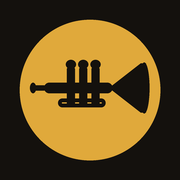
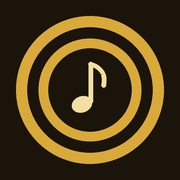
Versie 15: nieuw app-icoon (beker met noot)
Claude-Session: https://claude.ai/code/session_014hXRPaFfcgyXZBvtT8Ms8C

diff --git a/index.html b/index.html
@@ -150,7 +150,7 @@ ul.help li+li{margin-top:8px}
     <button class="tile" data-go="instrument"><i>⚙</i>Instrument<span>Instellingen</span></button>
     <button class="tile" data-go="hulp"><i>❓</i>Handleiding<span>Zo werkt de app</span></button>
   </div>
-  <p class="muted" style="text-align:center;margin-top:18px">Oefenmaatje voor brassband Euphonia · gemaakt door Rudi<br>Versie 14 · 17 november 2026</p>
+  <p class="muted" style="text-align:center;margin-top:18px">Oefenmaatje voor brassband Euphonia · gemaakt door Rudi<br>Versie 15 · 17 november 2026</p>
 </section>
 
 <!-- HANDLEIDING -->

diff --git a/sw.js b/sw.js
@@ -1,6 +1,6 @@
 // Brassband Oefenmaatje – service worker
 // Verhoog VERSIE bij elke update, dan halen alle telefoons de nieuwe versie op.
-const VERSIE = 'oefenmaatje-v14';
+const VERSIE = 'oefenmaatje-v15';
 const BESTANDEN = ['./', './index.html', './manifest.json', './icon-180.png', './icon-192.png', './icon-512.png', './icon-512-maskable.png'];
 
 self.addEventListener('install', e => {
